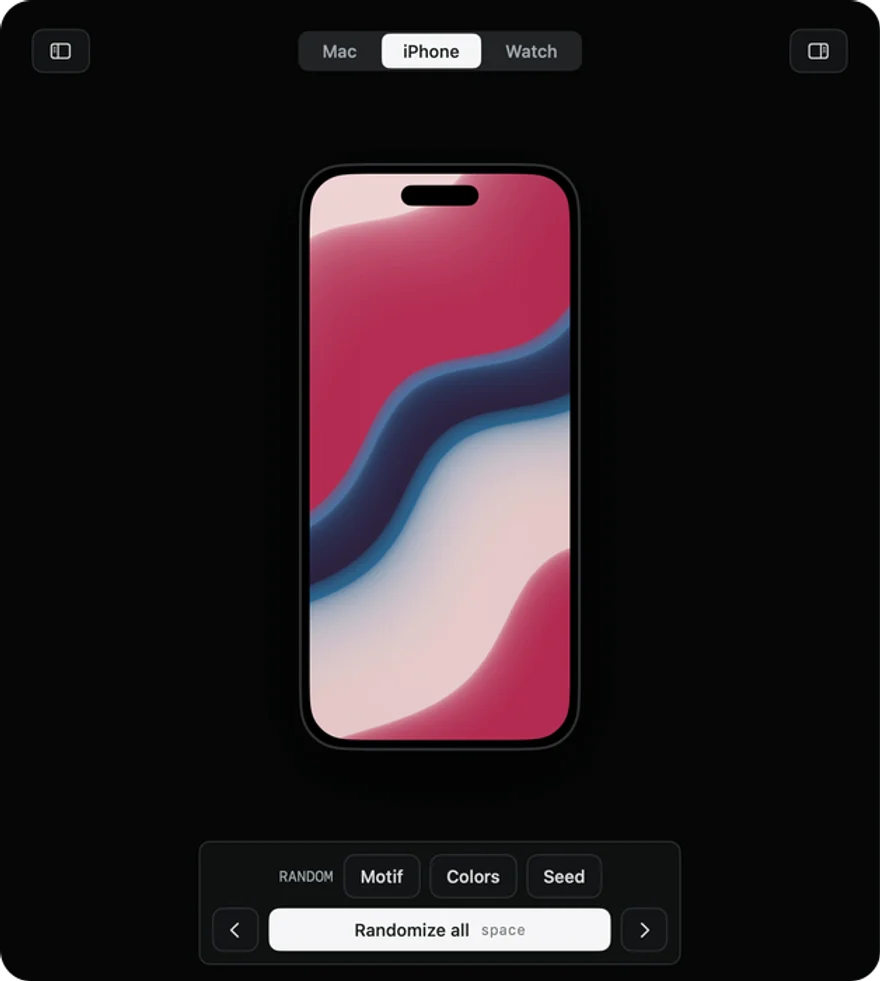
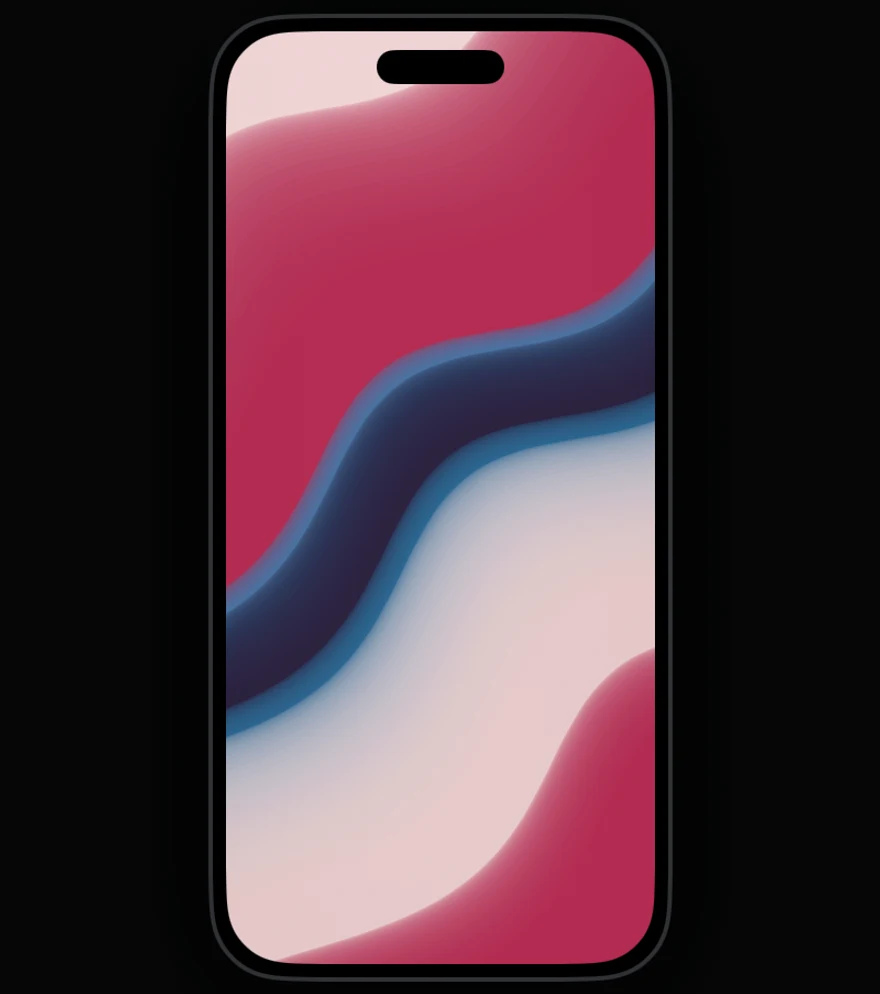
Landing: clean device tiles in the Mac app section
The iPhone, Watch and artists images were crops with cut-off dock buttons
and text, stretched by width/height attributes. Recropped to the device and
the artist cards, with height: auto so the aspect ratio holds.

diff --git a/index.html b/index.html
@@ -183,7 +183,7 @@
     .mac-shot img { display: block; width: 100%; height: auto; filter: drop-shadow(0 30px 60px rgba(0,0,0,.55)); }
     .devices { display: grid; grid-template-columns: repeat(auto-fit, minmax(min(100%, 260px), 1fr)); gap: clamp(14px, 2vw, 16px); margin-top: clamp(32px, 5vw, 64px); }
     .devices figure { margin: 0; }
-    .devices img { display: block; width: 100%; aspect-ratio: 416 / 470; object-fit: cover; object-position: top; background: var(--card); border-radius: 12px; }
+    .devices img { display: block; width: 100%; height: auto; aspect-ratio: 880 / 994; object-fit: cover; background: #050606; border-radius: 12px; }
     .devices h3 { margin: 14px 0 4px; font: 800 1.15rem/1.15 var(--display); letter-spacing: -.02em; }
     .devices p { margin: 0; color: var(--muted); font-size: 15px; }
     .features { display: grid; grid-template-columns: repeat(auto-fit, minmax(min(100%, 300px), 1fr)); gap: 16px; margin-top: clamp(24px, 4vw, 48px); }
@@ -387,9 +387,9 @@
       </div>
       <figure class="mac-shot reveal"><img src="app/mac-app.webp" width="2000" height="1303" loading="lazy" alt="The Study of Space Mac app: a panel of Polish artists on the left, a wallpaper preview in the middle, motif and palette controls on the right."></figure>
       <div class="devices">
-        <figure class="reveal"><img src="app/mac-app-iphone.webp" width="880" height="981" loading="lazy" alt="Preview of a wallpaper on an iPhone in the Mac app."><h3>Make one for your iPhone</h3><p>Preview the picture on a phone and save it at the exact screen size.</p></figure>
-        <figure class="reveal"><img src="app/mac-app-watch.webp" width="880" height="981" loading="lazy" alt="Preview of a watch face wallpaper on an Apple Watch in the Mac app."><h3>Even for your Watch</h3><p>Every seed is a different picture, from wrist to wall.</p></figure>
-        <figure class="reveal"><img src="app/mac-app-artists.webp" width="700" height="930" loading="lazy" alt="Cards of Wojciech Fangor and Maria Jarema with ASCII portraits and links to their motifs."><h3>The artists, one click away</h3><p>Fangor, Jarema, Kobro and more. Click a motif under try and the picture changes.</p></figure>
+        <figure class="reveal"><img src="app/mac-app-iphone.webp" width="880" height="994" loading="lazy" alt="Preview of a wallpaper on an iPhone in the Mac app."><h3>Make one for your iPhone</h3><p>Preview the picture on a phone and save it at the exact screen size.</p></figure>
+        <figure class="reveal"><img src="app/mac-app-watch.webp" width="880" height="994" loading="lazy" alt="Preview of a watch face wallpaper on an Apple Watch in the Mac app."><h3>Even for your Watch</h3><p>Every seed is a different picture, from wrist to wall.</p></figure>
+        <figure class="reveal"><img src="app/mac-app-artists.webp" width="880" height="995" loading="lazy" alt="Cards of Wojciech Fangor and Maria Jarema with ASCII portraits and links to their motifs."><h3>The artists, one click away</h3><p>Fangor, Jarema, Kobro and more. Click a motif under try and the picture changes.</p></figure>
       </div>
       <div class="features">
         <div class="feature reveal"><h3>28 motifs, 83 palettes</h3><p>Soft rings, waves, stripes, steps and spatial planes, from Fangor to Kobro.</p></div>
